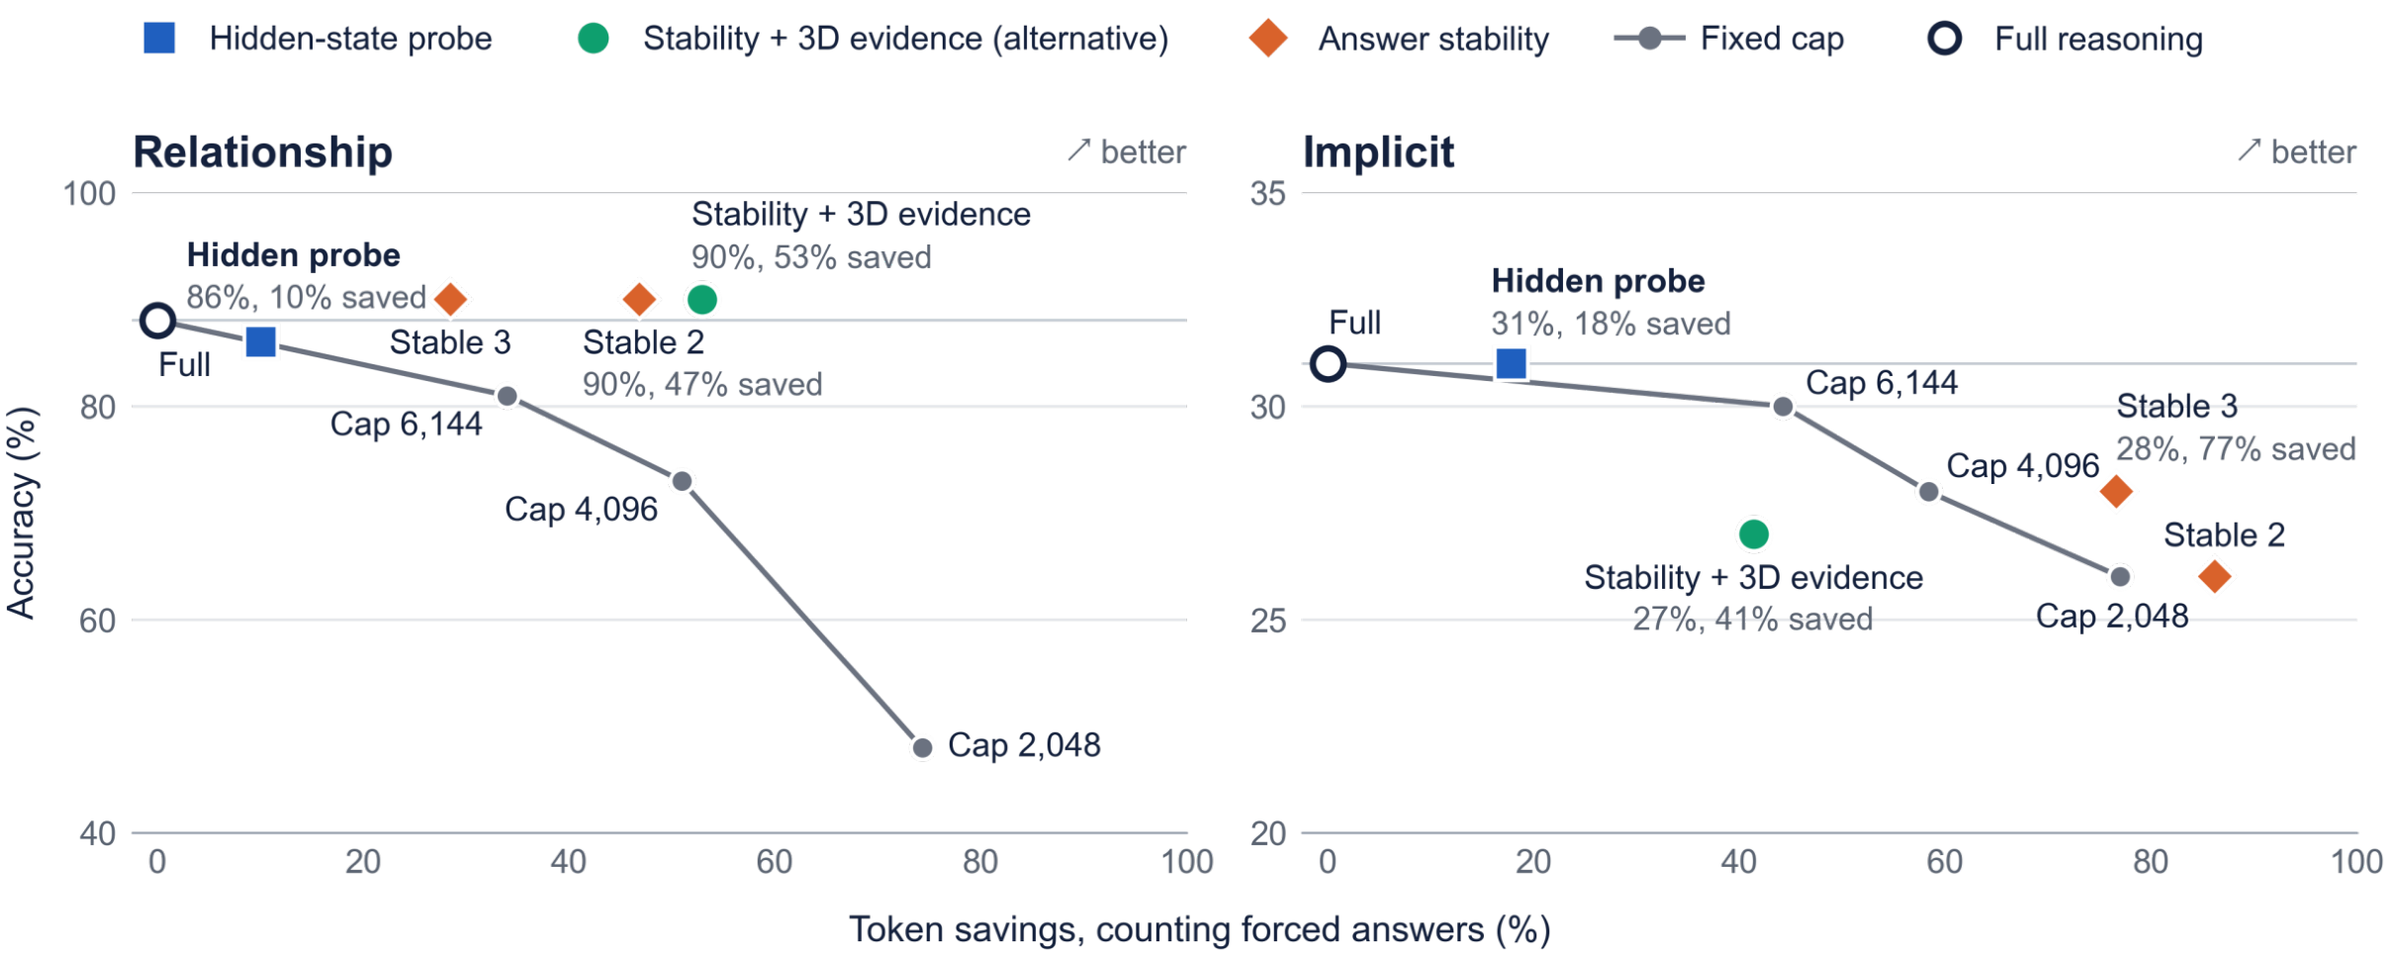
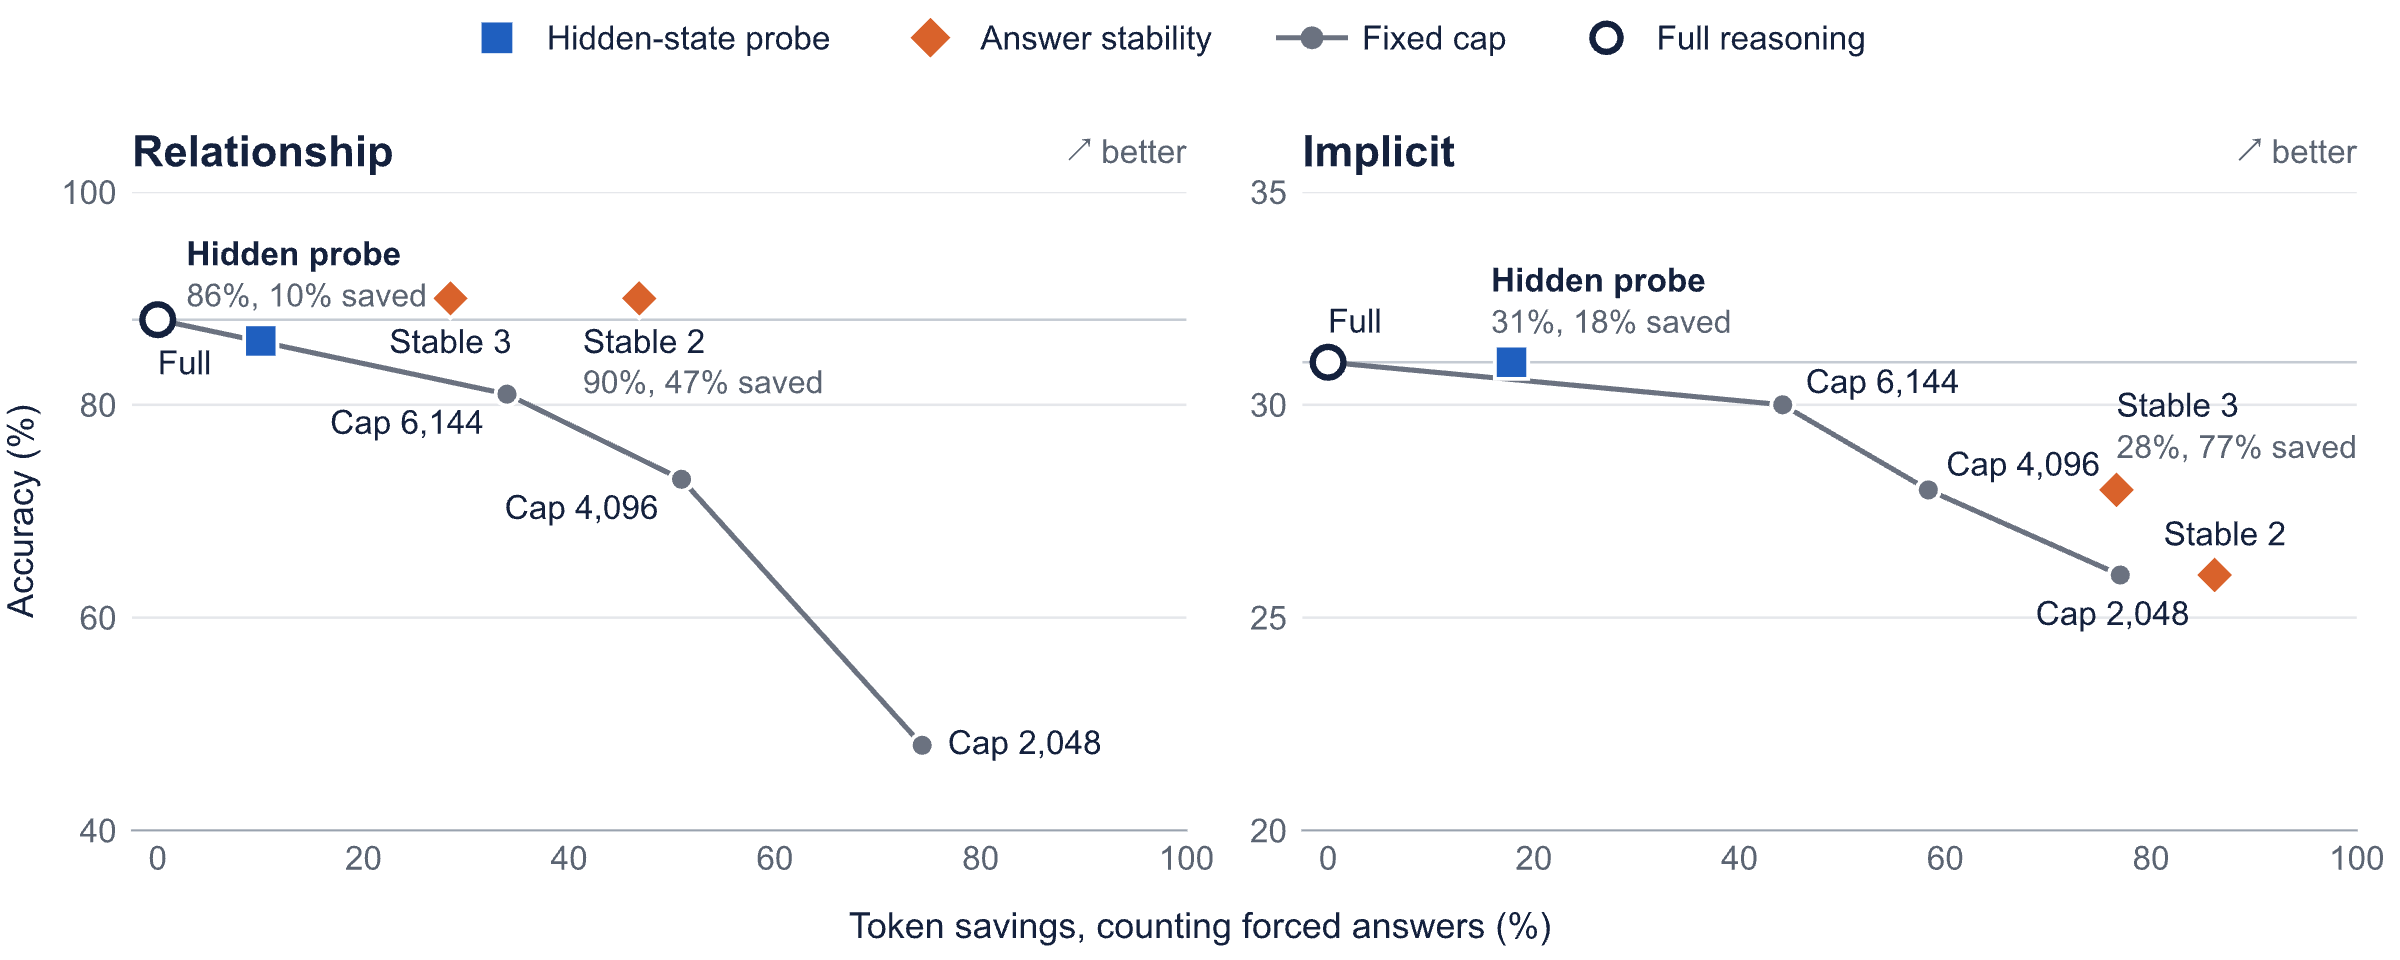
Drop the alternative stopping rule from the 3D QA page

diff --git a/index.html b/index.html
@@ -673,7 +673,7 @@ footer button:hover{color:var(--ink)}
       <section class="p-sec">
         <h3 class="p-h"><span class="hn">02</span><span class="en">Early findings</span><span class="ko">지금까지의 결과</span></h3>
         <p class="p-lead"><span class="en">Preliminary results on the tuning split with one seed, to be confirmed on the held-out final split.</span><span class="ko">tuning split·seed 1개의 예비 결과이며, held-out final split에서 확인할 예정입니다.</span></p>
-        <figure class="fig reveal"><a class="fig-frame wide" href="assets/spatial-stopping-rules.png" target="_blank" rel="noopener"><img src="assets/spatial-stopping-rules.png" alt="Stopping rules: accuracy against token savings on Relationship and Implicit" width="2400" height="963" loading="lazy" decoding="async"></a><figcaption><span class="en"><b>Figure.</b> Accuracy against token savings for each stopping rule, with the cost of forced answers counted. Thresholds were chosen by inner cross-validation on training questions; these tuning-split results will be confirmed on the final split.</span><span class="ko"><b>그림.</b> 중단 규칙별 정확도와 토큰 절감 (강제 답변 비용 포함). 임계값은 학습 질문 안의 교차검증으로 정했고, tuning split 결과이므로 final split에서 다시 확인할 예정입니다.</span></figcaption></figure>
+        <figure class="fig reveal"><a class="fig-frame wide" href="assets/spatial-stopping-rules.png" target="_blank" rel="noopener"><img src="assets/spatial-stopping-rules.png" alt="Stopping rules: accuracy against token savings on Relationship and Implicit" width="2400" height="960" loading="lazy" decoding="async"></a><figcaption><span class="en"><b>Figure.</b> Accuracy against token savings for each stopping rule, with the cost of forced answers counted. Thresholds were chosen by inner cross-validation on training questions; these tuning-split results will be confirmed on the final split.</span><span class="ko"><b>그림.</b> 중단 규칙별 정확도와 토큰 절감 (강제 답변 비용 포함). 임계값은 학습 질문 안의 교차검증으로 정했고, tuning split 결과이므로 final split에서 다시 확인할 예정입니다.</span></figcaption></figure>
         <figure class="fig reveal"><a class="fig-frame table" href="assets/spatial-baselines.png" target="_blank" rel="noopener"><img src="assets/spatial-baselines.png" alt="Baseline results within each task: Direct, No-thinking, Thinking" width="2400" height="1047" loading="lazy" decoding="async"></a><figcaption><span class="en"><b>Table.</b> Baseline results within each task (tuning split, one seed).</span><span class="ko"><b>표.</b> 과제별 기준 결과 (tuning split, seed 1개).</span></figcaption></figure>
         <div class="figs">
         <figure class="viz reveal">
@@ -698,7 +698,7 @@ footer button:hover{color:var(--ink)}
         <h3 class="p-h"><span class="hn">03</span><span class="en">From findings to next steps</span><span class="ko">결과에서 다음 단계로</span></h3>
         <div class="np-list">
           <div class="np"><div class="np-seen"><span class="lab"><span class="en">Observed so far</span><span class="ko">지금까지 관찰</span></span><span class="en">The answer forms early: on distance questions the correct value first appears at 35% of the trace (median), and 63% of the text follows it (mean).</span><span class="ko">답은 일찍 형성됩니다. 거리 문제에서 정답은 trace의 35% 지점(중앙값)에서 처음 나오고, 글의 63%(평균)가 그 뒤에 이어집니다.</span></div><span class="np-arrow" aria-hidden="true"><svg class="i" viewBox="0 0 24 24"><path d="M5 12h14"/><path d="m12 5 7 7-7 7"/></svg></span><div class="np-next"><span class="lab"><span class="en">Next</span><span class="ko">다음 단계</span></span><span class="en">Scale up with repeated seeds and about 300–400 tuning and final questions per task, and confirm the stopping rules on the held-out final split.</span><span class="ko">seed를 반복하고 과제당 tuning·final 문제를 약 300–400개로 늘려, held-out final split에서 중단 규칙을 확인합니다.</span></div></div>
-          <div class="np"><div class="np-seen"><span class="lab"><span class="en">Observed so far</span><span class="ko">지금까지 관찰</span></span><span class="en">Simple answer stability keeps 90% accuracy with 47% fewer tokens, while a last-token hidden-state probe only matches a tokens-only baseline (AUROC 0.75 vs. 0.75).</span><span class="ko">단순한 answer stability가 정확도 90%를 지키며 토큰을 47% 줄인 반면, 마지막 토큰 hidden-state probe는 토큰 수만 쓴 기준선과 같았습니다(AUROC 0.75 vs 0.75).</span></div><span class="np-arrow" aria-hidden="true"><svg class="i" viewBox="0 0 24 24"><path d="M5 12h14"/><path d="m12 5 7 7-7 7"/></svg></span><div class="np-next"><span class="lab"><span class="en">Next</span><span class="ko">다음 단계</span></span><span class="en">Build a probe that reads which entity the model currently believes in, from the relation between hidden states and object tokens, and compare it with the evidence-based detector under the same criteria.</span><span class="ko">hidden state와 물체 토큰 사이의 관계로 모델이 지금 믿는 대상을 읽는 probe를 만들고, 근거 기반 detector와 같은 기준으로 비교합니다.</span></div></div>
+          <div class="np"><div class="np-seen"><span class="lab"><span class="en">Observed so far</span><span class="ko">지금까지 관찰</span></span><span class="en">Simple answer stability keeps 90% accuracy with 47% fewer tokens, while a last-token hidden-state probe only matches a tokens-only baseline (AUROC 0.75 vs. 0.75).</span><span class="ko">단순한 answer stability가 정확도 90%를 지키며 토큰을 47% 줄인 반면, 마지막 토큰 hidden-state probe는 토큰 수만 쓴 기준선과 같았습니다(AUROC 0.75 vs 0.75).</span></div><span class="np-arrow" aria-hidden="true"><svg class="i" viewBox="0 0 24 24"><path d="M5 12h14"/><path d="m12 5 7 7-7 7"/></svg></span><div class="np-next"><span class="lab"><span class="en">Next</span><span class="ko">다음 단계</span></span><span class="en">Build a probe that reads which entity the model currently believes in, from the relation between hidden states and object tokens.</span><span class="ko">hidden state와 물체 토큰 사이의 관계로 모델이 지금 믿는 대상을 읽는 probe를 만듭니다.</span></div></div>
           <div class="np"><div class="np-seen"><span class="lab"><span class="en">Observed so far</span><span class="ko">지금까지 관찰</span></span><span class="en">Evaluation choices change conclusions: a 6,144-token cutoff turns 88% into 36%, fixing the answer parser moves 77% to 88%, and adding an answer cue changes 14 of 40 AI-judge labels.</span><span class="ko">평가 설정이 결론을 바꿉니다. 6,144토큰 상한은 88%를 36%로 만들고, 답 파싱 규칙 수정은 77%를 88%로 바꾸며, 답 앞 문구 하나가 AI 채점 판정 40개 중 14개를 바꿉니다.</span></div><span class="np-arrow" aria-hidden="true"><svg class="i" viewBox="0 0 24 24"><path d="M5 12h14"/><path d="m12 5 7 7-7 7"/></svg></span><div class="np-next"><span class="lab"><span class="en">Next</span><span class="ko">다음 단계</span></span><span class="en">Evaluate free-text answers with human samples, several judges, and a stability measure, with pass criteria fixed before results.</span><span class="ko">서술형 답은 사람 표본, 여러 채점자, 안정성 지표로 평가하고, 통과 기준은 결과를 보기 전에 정합니다.</span></div></div>
           <div class="np"><div class="np-seen"><span class="lab"><span class="en">Observed so far</span><span class="ko">지금까지 관찰</span></span><span class="en">Many errors are grounding errors: in 43 of 60 answerable Implicit errors, the correct object ID already appeared in the reasoning.</span><span class="ko">오답의 상당수는 grounding 오류입니다. 맞힐 수 있었던 Implicit 오답 60개 중 43개는 정답 물체 번호가 이미 reasoning에 있었습니다.</span></div><span class="np-arrow" aria-hidden="true"><svg class="i" viewBox="0 0 24 24"><path d="M5 12h14"/><path d="m12 5 7 7-7 7"/></svg></span><div class="np-next"><span class="lab"><span class="en">Next</span><span class="ko">다음 단계</span></span><span class="en">Re-link descriptions to object IDs through coordinates, a step toward grounded reasoning for embodied agents.</span><span class="ko">좌표를 통해 묘사를 물체 번호에 다시 연결해, embodied agent를 위한 grounded reasoning으로 나아갑니다.</span></div></div>
         </div>
